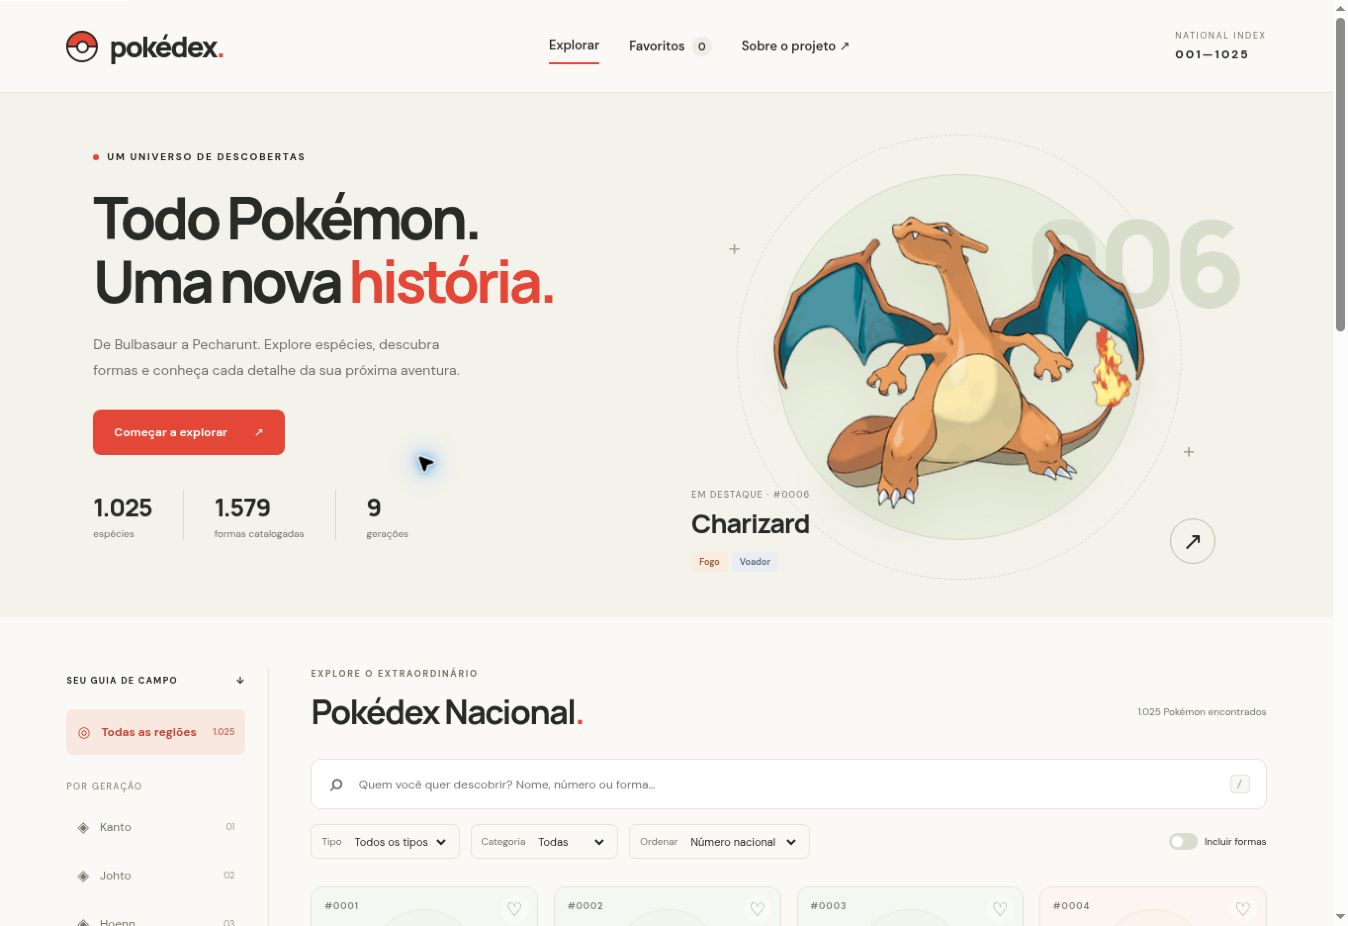
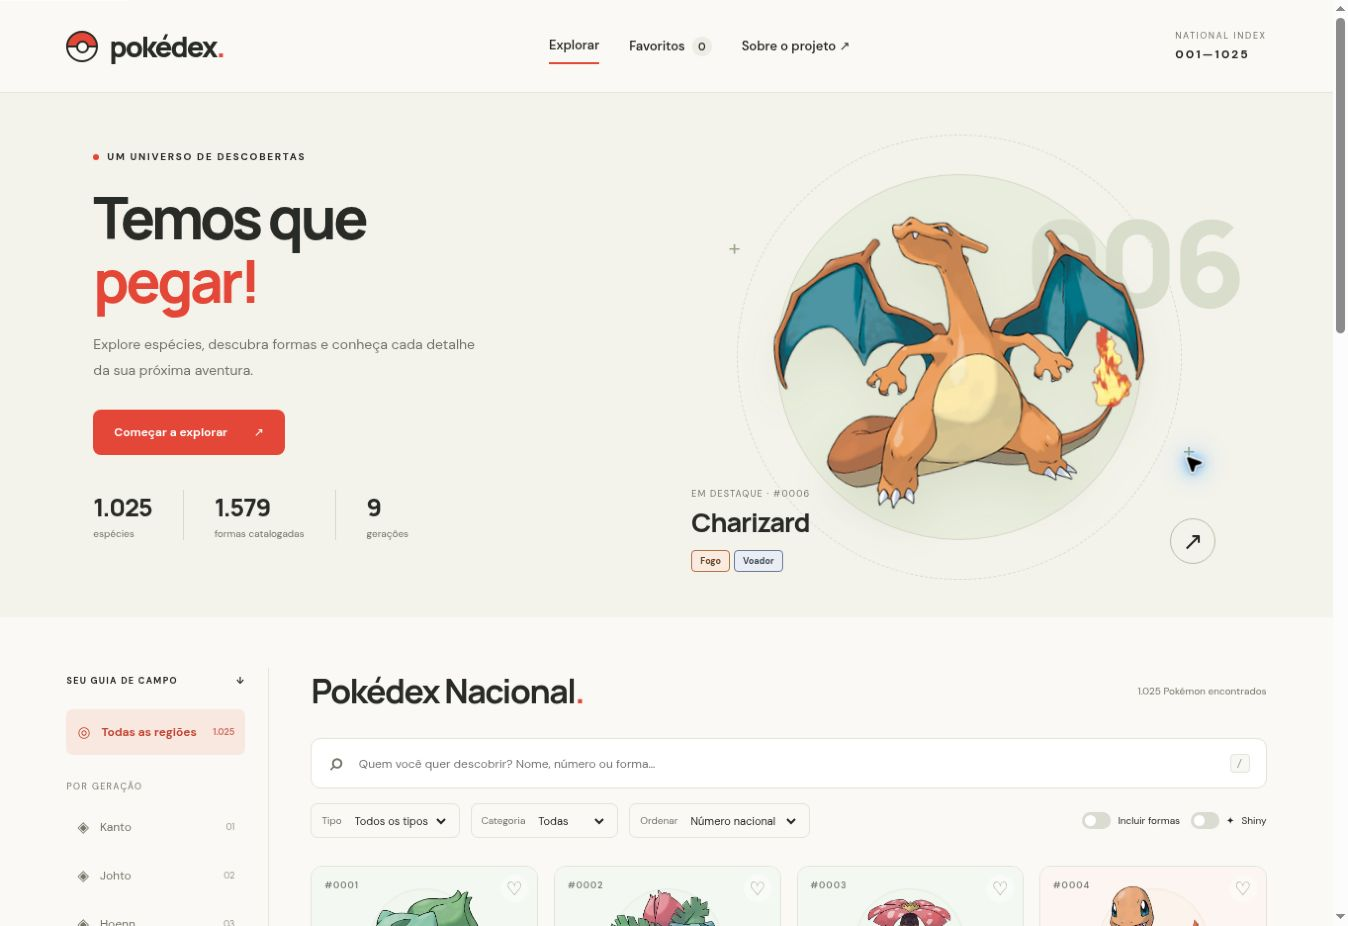
fix: atualiza chamada e apresentação da Pokédex de fã

diff --git a/web/index.html b/web/index.html
@@ -19,7 +19,7 @@
   </header>
   <main>
     <section class="hero" aria-labelledby="hero-title">
-      <div class="hero-copy"><div class="eyebrow"><span class="status-dot"></span> UM UNIVERSO DE DESCOBERTAS</div><h1 id="hero-title">Todo Pokémon.<br>Uma nova <em>história.</em></h1><p>De Bulbasaur a Pecharunt. Explore espécies, descubra formas e conheça cada detalhe da sua próxima aventura.</p><a class="primary" href="#catalog">Começar a explorar <span>↗</span></a><div class="hero-numbers"><div><strong>1.025</strong><span>espécies</span></div><div><strong id="form-count">1.579</strong><span>formas catalogadas</span></div><div><strong>9</strong><span>gerações</span></div></div></div>
+      <div class="hero-copy"><div class="eyebrow"><span class="status-dot"></span> UM UNIVERSO DE DESCOBERTAS</div><h1 id="hero-title">Temos que<br><em>pegar!</em></h1><p>Explore espécies, descubra formas e conheça cada detalhe da sua próxima aventura.</p><a class="primary" href="#catalog">Começar a explorar <span>↗</span></a><div class="hero-numbers"><div><strong>1.025</strong><span>espécies</span></div><div><strong id="form-count">1.579</strong><span>formas catalogadas</span></div><div><strong>9</strong><span>gerações</span></div></div></div>
       <div class="hero-art"><div class="orbit orbit-one"></div><div class="orbit orbit-two"></div><span class="art-cross cross-a">+</span><span class="art-cross cross-b">+</span><span class="art-number">006</span><img id="hero-image" data-pokemon="6" data-shiny="0" src="https://raw.githubusercontent.com/PokeAPI/sprites/master/sprites/pokemon/other/official-artwork/6.png" alt="Ilustração de Charizard" width="475" height="475" fetchpriority="high"><div class="featured-label"><span>EM DESTAQUE · #0006</span><strong>Charizard</strong><div><span class="badge type-10">Fogo</span><span class="badge type-3">Voador</span></div></div><button class="round-button" id="featured-open" aria-label="Abrir ficha de Charizard">↗</button></div>
     </section>
     <section class="explorer" id="catalog" aria-labelledby="catalog-title">
@@ -29,16 +29,16 @@
         <div class="sidebar-note"><span class="pokeball small" aria-hidden="true"></span><strong>Conhecer é o começo.</strong><p>Cada forma guarda um detalhe. Cada região, uma descoberta.</p></div>
       </aside>
       <div class="catalog-main">
-        <div class="section-heading"><div class="eyebrow">EXPLORE O EXTRAORDINÁRIO</div><div class="heading-row"><h2 id="catalog-title">Pokédex Nacional<span>.</span></h2><span id="result-count" role="status" aria-live="polite">Carregando catálogo…</span></div></div>
+        <div class="section-heading"><div class="heading-row"><h2 id="catalog-title">Pokédex Nacional<span>.</span></h2><span id="result-count" role="status" aria-live="polite">Carregando catálogo…</span></div></div>
         <div class="search-bar"><span aria-hidden="true">⌕</span><input id="search" type="search" autocomplete="off" placeholder="Quem você quer descobrir? Nome, número ou forma…" aria-label="Buscar Pokémon por nome, número ou forma"><kbd>/</kbd></div>
         <div class="filters"><label><span>Tipo</span><select id="type-filter"><option value="0">Todos os tipos</option></select></label><label><span>Categoria</span><select id="kind-filter"><option value="">Todas</option><option value="legendary">Lendários</option><option value="mythical">Míticos</option></select></label><label><span>Ordenar</span><select id="sort-filter"><option value="number">Número nacional</option><option value="name">Nome A–Z</option><option value="total">Total de atributos</option></select></label><label class="switch-label"><input type="checkbox" id="forms-filter"><span class="switch" aria-hidden="true"></span>Incluir formas</label><label class="switch-label shiny-switch"><input type="checkbox" id="shiny-filter"><span class="switch" aria-hidden="true"></span><span aria-hidden="true">✦</span> Shiny</label></div>
         <div class="active-filters" id="active-filters"></div><div class="card-grid" id="pokemon-grid" aria-live="polite"><div class="loading-state">Preparando seu guia de campo…</div></div><div class="pagination"><button id="load-more" class="secondary" hidden>Mostrar mais Pokémon <span>↓</span></button><span id="page-count"></span></div>
       </div>
     </section>
   </main>
-  <footer><a class="brand" href="./"><span class="pokeball small" aria-hidden="true"></span>pokédex.</a><p>Um projeto de <a href="https://github.com/luigiscofano" target="_blank" rel="noreferrer">Luigi Scofano de Araujo</a><br><small>Dados: PokéAPI · Projeto independente, sem afiliação oficial.</small></p><a href="https://github.com/luigiscofano/Pokedex" target="_blank" rel="noreferrer">Ver projeto no GitHub ↗</a></footer>
+  <footer><a class="brand" href="./"><span class="pokeball small" aria-hidden="true"></span>pokédex.</a><p>Uma Pokédex de fã, feita por <a href="https://github.com/luigiscofano" target="_blank" rel="noreferrer">Luigi Scofano de Araujo</a> para outros fãs de Pokémon.<br><small>Dados: PokéAPI · Projeto independente, sem afiliação oficial.</small></p><a href="https://github.com/luigiscofano/Pokedex" target="_blank" rel="noreferrer">Ver projeto no GitHub ↗</a></footer>
   <dialog id="pokemon-dialog" aria-labelledby="detail-title"><div id="detail-content"></div><button class="dialog-close" id="detail-close" aria-label="Fechar ficha">×</button></dialog>
-  <dialog id="about-dialog" aria-labelledby="about-title"><button class="dialog-close" id="about-close" aria-label="Fechar informações">×</button><div class="about-content"><div class="eyebrow">SOBRE ESTE GUIA</div><h2 id="about-title">Curiosidade, em cada detalhe.</h2><p>Uma enciclopédia com as 1.025 espécies da Pokédex Nacional e todas as formas cadastradas na cópia versionada da PokéAPI usada neste projeto.</p><div id="source-summary"></div><h3>Como ler os dados</h3><p>A interface é em português. Textos dos jogos, habilidades e golpes preservam o idioma da fonte. As descrições podem ser consultadas por jogo e idioma.</p><p>A tabela de tipos usa as regras modernas e considera somente tipos. Habilidades, itens e efeitos de batalha podem mudar o resultado. Encontros são registros da fonte: a falta de uma localização não significa que o Pokémon não possa ser obtido naquele jogo.</p><p>Os favoritos ficam apenas neste navegador. Ilustrações e sprites exigem conexão; as fichas vêm de arquivos do próprio projeto.</p><h3>Créditos</h3><p>Aplicação de Luigi Scofano de Araujo. Dados e imagens da comunidade PokéAPI. Pokémon, personagens e textos pertencem aos respectivos titulares. Projeto de estudo e portfólio, sem afiliação oficial.</p><a class="primary" href="https://github.com/luigiscofano/Pokedex" target="_blank" rel="noreferrer">Código, documentação e fontes ↗</a></div></dialog>
+  <dialog id="about-dialog" aria-labelledby="about-title"><button class="dialog-close" id="about-close" aria-label="Fechar informações">×</button><div class="about-content"><div class="eyebrow">SOBRE ESTE GUIA</div><h2 id="about-title">Curiosidade, em cada detalhe.</h2><p>Uma Pokédex de fã, feita por Luigi Scofano de Araujo para outros fãs de Pokémon.</p><p>Uma enciclopédia com as 1.025 espécies da Pokédex Nacional e todas as formas cadastradas na cópia versionada da PokéAPI usada neste projeto.</p><div id="source-summary"></div><h3>Como ler os dados</h3><p>A interface é em português. Textos dos jogos, habilidades e golpes preservam o idioma da fonte. As descrições podem ser consultadas por jogo e idioma.</p><p>A tabela de tipos usa as regras modernas e considera somente tipos. Habilidades, itens e efeitos de batalha podem mudar o resultado. Encontros são registros da fonte: a falta de uma localização não significa que o Pokémon não possa ser obtido naquele jogo.</p><p>Os favoritos ficam apenas neste navegador. Ilustrações e sprites exigem conexão; as fichas vêm de arquivos do próprio projeto.</p><h3>Créditos</h3><p>Aplicação de Luigi Scofano de Araujo. Dados e imagens da comunidade PokéAPI. Pokémon, personagens e textos pertencem aos respectivos titulares. Projeto de estudo e portfólio, sem afiliação oficial.</p><a class="primary" href="https://github.com/luigiscofano/Pokedex" target="_blank" rel="noreferrer">Código, documentação e fontes ↗</a></div></dialog>
   <div id="toast" role="status" aria-live="polite"></div>
   <noscript><p>Ative JavaScript para explorar a Pokédex. O código e a base estão disponíveis no repositório.</p></noscript>
 </body>

diff --git a/README.md b/README.md
@@ -2,7 +2,7 @@
 
 **Uma enciclopédia navegável com as 1.025 espécies da Pokédex Nacional e 1.579 formas registradas**, criada a partir do meu primeiro projeto Java de orientação a objetos.
 
-A aplicação permite pesquisar Pokémon, consultar formas alternativas, entender tipos e fraquezas, acompanhar famílias evolutivas e explorar descrições, golpes e encontros por jogo. O exercício Java original está preservado em [`src/`](src/README.md) e no histórico do repositório.
+Feita por **Luigi Scofano de Araujo**, de fã para outros fãs de Pokémon. A aplicação permite pesquisar Pokémon, consultar formas alternativas, entender tipos e fraquezas, acompanhar famílias evolutivas e explorar descrições, golpes e encontros por jogo. O exercício Java original está preservado em [`src/`](src/README.md) e no histórico do repositório.
 
 [Abrir versão hospedada](https://pokedex-luigi-explorer.luigiscofano.chatgpt.site) · [Código no GitHub](https://github.com/luigiscofano/Pokedex)
 

diff --git a/docs/imagens/README.md b/docs/imagens/README.md
@@ -8,3 +8,5 @@
 As imagens foram capturadas em 2 de novembro de 2026 durante a verificação da aplicação. São capturas do produto implementado, não mockups. Ilustrações dos Pokémon pertencem aos respectivos titulares e são fornecidas pelo projeto PokeAPI/sprites.
 
 `pokedex-shiny.jpg`: ficha de Charizard com aparência shiny e tipos com contorno, capturada no navegador em 2026-11-02 (versão 1.1.0).
+
+`pokedex-inicio.jpg`: captura atualizada em 2026-11-02 (versão 1.1.1), com a chamada “Temos que pegar!” e o catálogo sem subtítulo.

diff --git a/CHANGELOG.md b/CHANGELOG.md
@@ -1,5 +1,11 @@
 # Histórico de mudanças
 
+## 1.1.1 — 2026-11-02
+
+- Chamada principal “Temos que pegar!”, mantendo a descrição sobre explorar espécies e formas.
+- Apresentação como uma Pokédex de fã, feita por Luigi Scofano de Araujo para outros fãs de Pokémon, no rodapé e em Sobre.
+- Remoção de “De Bulbasaur a Pecharunt.” e “EXPLORE O EXTRAORDINÁRIO”.
+
 ## 1.1.0 — 2026-11-02
 
 - Alternância Normal/Shiny no catálogo e nas fichas, aplicada também ao destaque e às evoluções.
